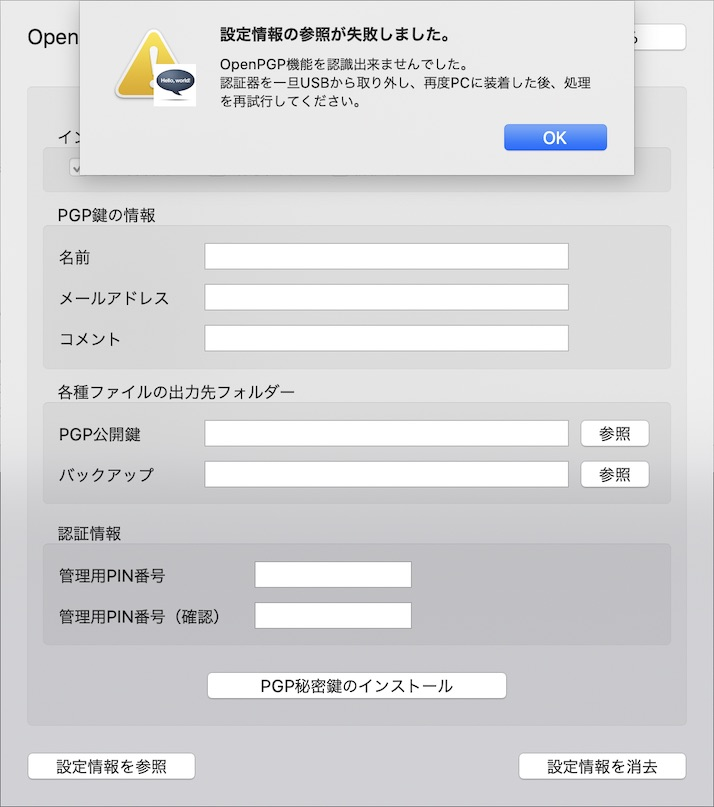
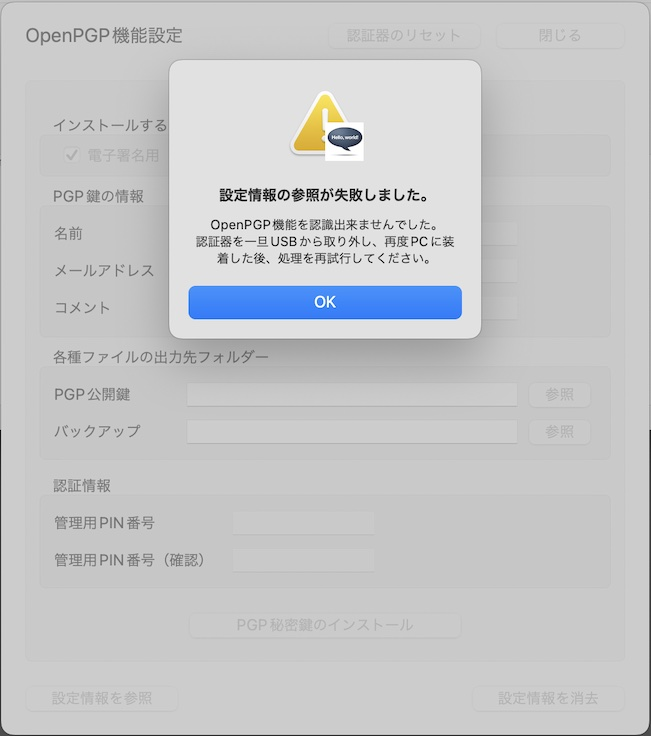
ドキュメントを更新
・画面イメージを最新版に更新
・ファームウェア再起動手順を修正

diff --git a/MaintenanceTool/macOSApp/PGPSETTING_OPT.md b/MaintenanceTool/macOSApp/PGPSETTING_OPT.md
@@ -1,6 +1,6 @@
 # OpenPGP機能の各種設定手順
 
-最終更新日：2022/11/15
+最終更新日：2023/4/13
 
 ## 概要
 
@@ -12,7 +12,7 @@
   - PIN番号をリセット
   - リセットコードを変更
   - リセットコードでPIN番号をリセット
-- 認証器のリセット（ファームウェアの再始動）
+- 認証器のファームウェア再起動
 
 ## OpenPGP設定画面の表示
 
@@ -141,18 +141,18 @@ PIN番号リセット処理が実行されます。<br>
 
 これで、リセットコードによるPIN番号のリセットは完了です。
 
-## 認証器のリセット
+## 認証器のファームウェア再起動
 
-前述の各機能を実行時、下図のようなエラーメッセージが表示されることがあります。
+前述までの各機能を実行時、下図のようなエラーメッセージが表示されることがあります。
 
 <img src="assets07/0021.jpg" width="350">
 
-この場合は、認証器のリセットをお試しいただくことにより、認証器の再装着が不要となる場合があります。<br>
+この場合は、認証器のファームウェア再起動をお試しいただくことにより、認証器の再装着が不要となる場合があります。<br>
 画面下部のボタン「認証器のリセット」をクリックします。
 
 <img src="assets07/0022.jpg" width="350">
 
-認証器がUSBに装着されたまま、ファームウェアが再始動されます。
+認証器がUSBに装着されたまま、認証器のファームウェアが再起動します。
 
 <img src="assets07/0018.jpg" width="350">
 
